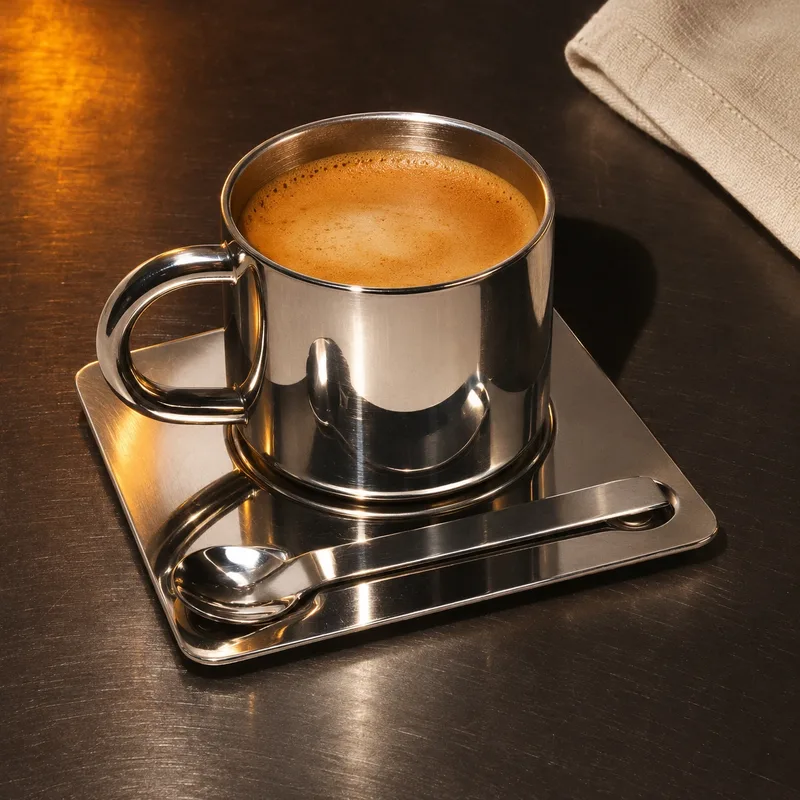
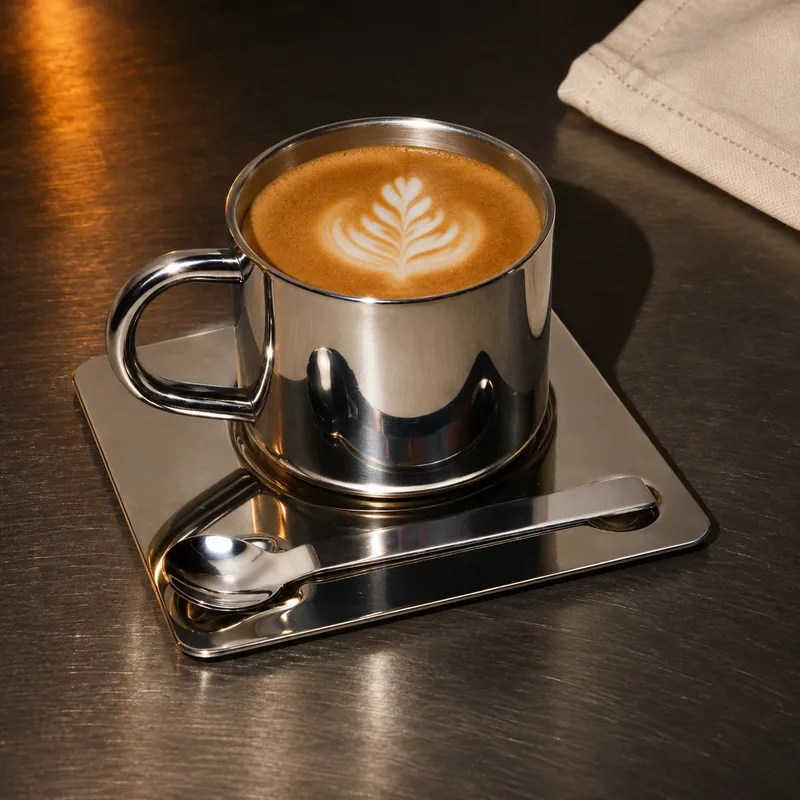
Fotos de cafés reasignadas: Espresso, Double espresso, Cortado y Flat white

diff --git a/sw.js b/sw.js
@@ -1,5 +1,5 @@
 /* ROCE · App de pedidos: caché sencilla del cascarón de la app (la carta y los pedidos siempre van a la red cuando hay conexión). */
-var V = 'roce-app-73';
+var V = 'roce-app-74';
 var SHELL = ['/', '/carta.css', '/carta.js', '/chef.js', '/menu.js', '/order.js', '/account.js', '/order.css', '/i18n.js', '/config.js', '/manifest.webmanifest', '/assets/fonts/HelveticaNeue-Regular.woff2', '/assets/fonts/HelveticaNeue-Bold.woff2'];
 self.addEventListener('install', function (e) { e.waitUntil(caches.open(V).then(function (c) { return c.addAll(SHELL); }).then(function () { return self.skipWaiting(); })); });
 self.addEventListener('activate', function (e) {
